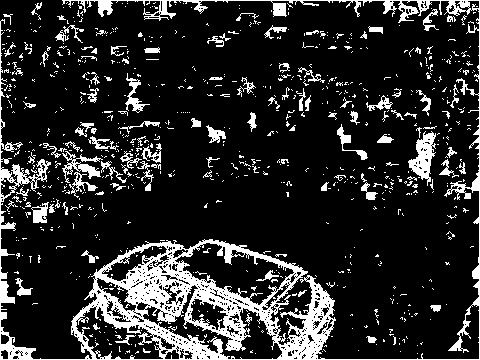
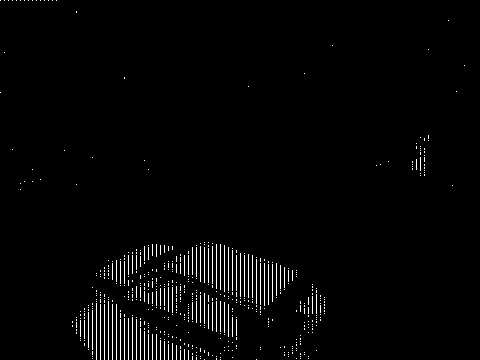
hystérésisé

diff --git a/src/run_main/histerisis.cpp b/src/run_main/histerisis.cpp
@@ -20,45 +20,43 @@ cv::Mat compute_gradient(cv::Mat image){
 
 
 cv::Mat histerisis(const cv::Mat image, int low_threshold, int high_threshold) {
-    cv::Mat gradient_magnitude = compute_gradient(image);
-    // cv::Mat gradient_magnitude = image;
-    cv::Mat edges = cv::Mat::zeros(image.rows, image.cols, CV_32FC1);
+    // cv::Mat gradient_magnitude = compute_gradient(image);
+    cv::Mat gradient_magnitude = image;
+    cv::Mat edges = cv::Mat::zeros(image.rows, image.cols, CV_8UC1);
 
     for (int i = 0; i < gradient_magnitude.rows; i++) {
         for (int j = 0; j < gradient_magnitude.cols; j++) {
             float gradient = gradient_magnitude.at<float>(i, j);
-
+            
             if (gradient > high_threshold) {
-                edges.at<float>(i, j) = 255;
+                edges.at<int>(i, j) = 0;
             } else if (gradient < low_threshold) {
-                edges.at<float>(i, j) = 128;
+                edges.at<int>(i, j) = 128;
             } else{
-                edges.at<float>(i, j) = 0;
-            }   
+                edges.at<int>(i, j) = 255;
+            }
         }
     }
 
-    for (int iter = 0; iter < 100; iter++){
-        for (int i = 0; i < edges.rows; i++) {
-            for (int j = 0; j < edges.cols; j++) {
-                
-                if (edges.at<float>(i, j) == 128) {
-                    for (int dx = -1; dx <= 1; dx++) {
-                        for (int dy = -1; dy <= 1; dy++) {
-                            int nx = i + dx;
-                            int ny = j + dy;
+    for (int i = 0; i < edges.rows; i++) {
+        for (int j = 0; j < edges.cols; j++) {
+            
+            if (edges.at<int>(i, j) == 128) {
+                for (int dx = -1; dx <= 1; dx++) {
+                    for (int dy = -1; dy <= 1; dy++) {
+                        int nx = i + dx;
+                        int ny = j + dy;
 
-                            if (nx >= 0 && nx < edges.rows && ny >= 0 && ny < edges.cols) {
-                                if (edges.at<float>(nx, ny) == 255) {
-                                    edges.at<float>(i, j) = 255;
-                                }
+                        if (nx >= 0 && nx < edges.rows && ny >= 0 && ny < edges.cols) {
+                            if (edges.at<int>(nx, ny) == 0) {
+                                edges.at<int>(i, j) = 0;
                             }
                         }
                     }
+                }
 
-                    if (edges.at<float>(i, j) == 128) {
-                        edges.at<float>(i, j) = 0;
-                    }
+                if (edges.at<int>(i, j) == 128) {
+                    edges.at<int>(i, j) = 255;
                 }
             }
         }

diff --git a/src/run_main/mask.cpp b/src/run_main/mask.cpp
@@ -5,6 +5,11 @@
 
 cv::Mat Mask(cv::Mat image, cv::Mat mask) {
     cv::Mat image_masked = cv::Mat::zeros(image.rows, image.cols, CV_32FC3);
+    std::cout << image.rows << " " << image.cols << std::endl;
+    std::cout << image.at<cv::Vec3f>(0, 0) << std::endl;
+    std::cout << mask.rows << " " << mask.cols << std::endl;
+    std::cout << image.channels() << std::endl;
+
 
     if (image.empty() || mask.empty() || image.channels() != 3) {
         throw std::runtime_error("Invalid image or mask");
@@ -12,19 +17,19 @@ cv::Mat Mask(cv::Mat image, cv::Mat mask) {
 
     for (int i = 0; i < image.rows; ++i) {
         for (int j = 0; j < image.cols; ++j) {
-            cv::Vec3b pixel = image.at<cv::Vec3b>(i, j);
+            cv::Vec3f pixel = image.at<cv::Vec3f>(i, j);
 
-            float mask_value = mask.at<float>(i, j);
+            int mask_value = mask.at<int>(i, j);
             if (mask_value == 255)
-                mask_value = 1;
-            else
                 mask_value = 0;
+            else
+                mask_value = 1;
             
             pixel[2] += 0.5 * pixel[2] * mask_value;
             if (pixel[2] > 255)
                 pixel[2] = 255;
 
-            image_masked.at<cv::Vec3b>(i, j) = pixel;
+            image_masked.at<cv::Vec3f>(i, j) = cv::Vec3f(pixel[0], pixel[1], pixel[2]);
         }
     }
 

diff --git a/src/run_main/main.cpp b/src/run_main/main.cpp
@@ -15,8 +15,8 @@ int main(int argc, char** argv){
     std::string path_image2 = argv[2];
     std::string output = "images_output/";
 
-    cv::Mat image1 = load_image(path_image1);
-    cv::Mat image2 = load_image(path_image2);
+    cv::Mat image1 = load_image(path_image1, cv::IMREAD_COLOR);
+    cv::Mat image2 = load_image(path_image2, cv::IMREAD_COLOR);
     
     cv::Mat lab_image = compute_lab_image(image1, image2);
     save_image(output + "image_lab.jpg", lab_image);
@@ -24,10 +24,11 @@ int main(int argc, char** argv){
     cv::Mat opened_image = opening(lab_image, 3);
     save_image(output + "image_denoised.jpg", opened_image);
 
-    cv::Mat histerisis_image = histerisis(opened_image, 4, 30);
+    cv::Mat image_opened = load_image(output + "image_denoised.jpg", cv::IMREAD_GRAYSCALE);
+    cv::Mat histerisis_image = histerisis(image_opened, 4, 30);
     save_image(output + "image_histerisis.jpg", histerisis_image);
 
-    cv::Mat mask_image = Mask(image1, histerisis_image);
+    cv::Mat mask_image = Mask(load_image(path_image1, cv::IMREAD_COLOR), histerisis_image);
     save_image(output + "image_masked.jpg", mask_image);
 
     return 0;

diff --git a/src/run_main/tools.cpp b/src/run_main/tools.cpp
@@ -2,8 +2,8 @@
 #include <iostream>
 
 
-cv::Mat load_image(std::string path){
-    cv::Mat image = cv::imread(path, cv::IMREAD_COLOR);
+cv::Mat load_image(std::string path, int type){
+    cv::Mat image = cv::imread(path, type);
     if (image.empty()){
         std::cout << "Could not read the image: " << path << std::endl;
         exit(1);
